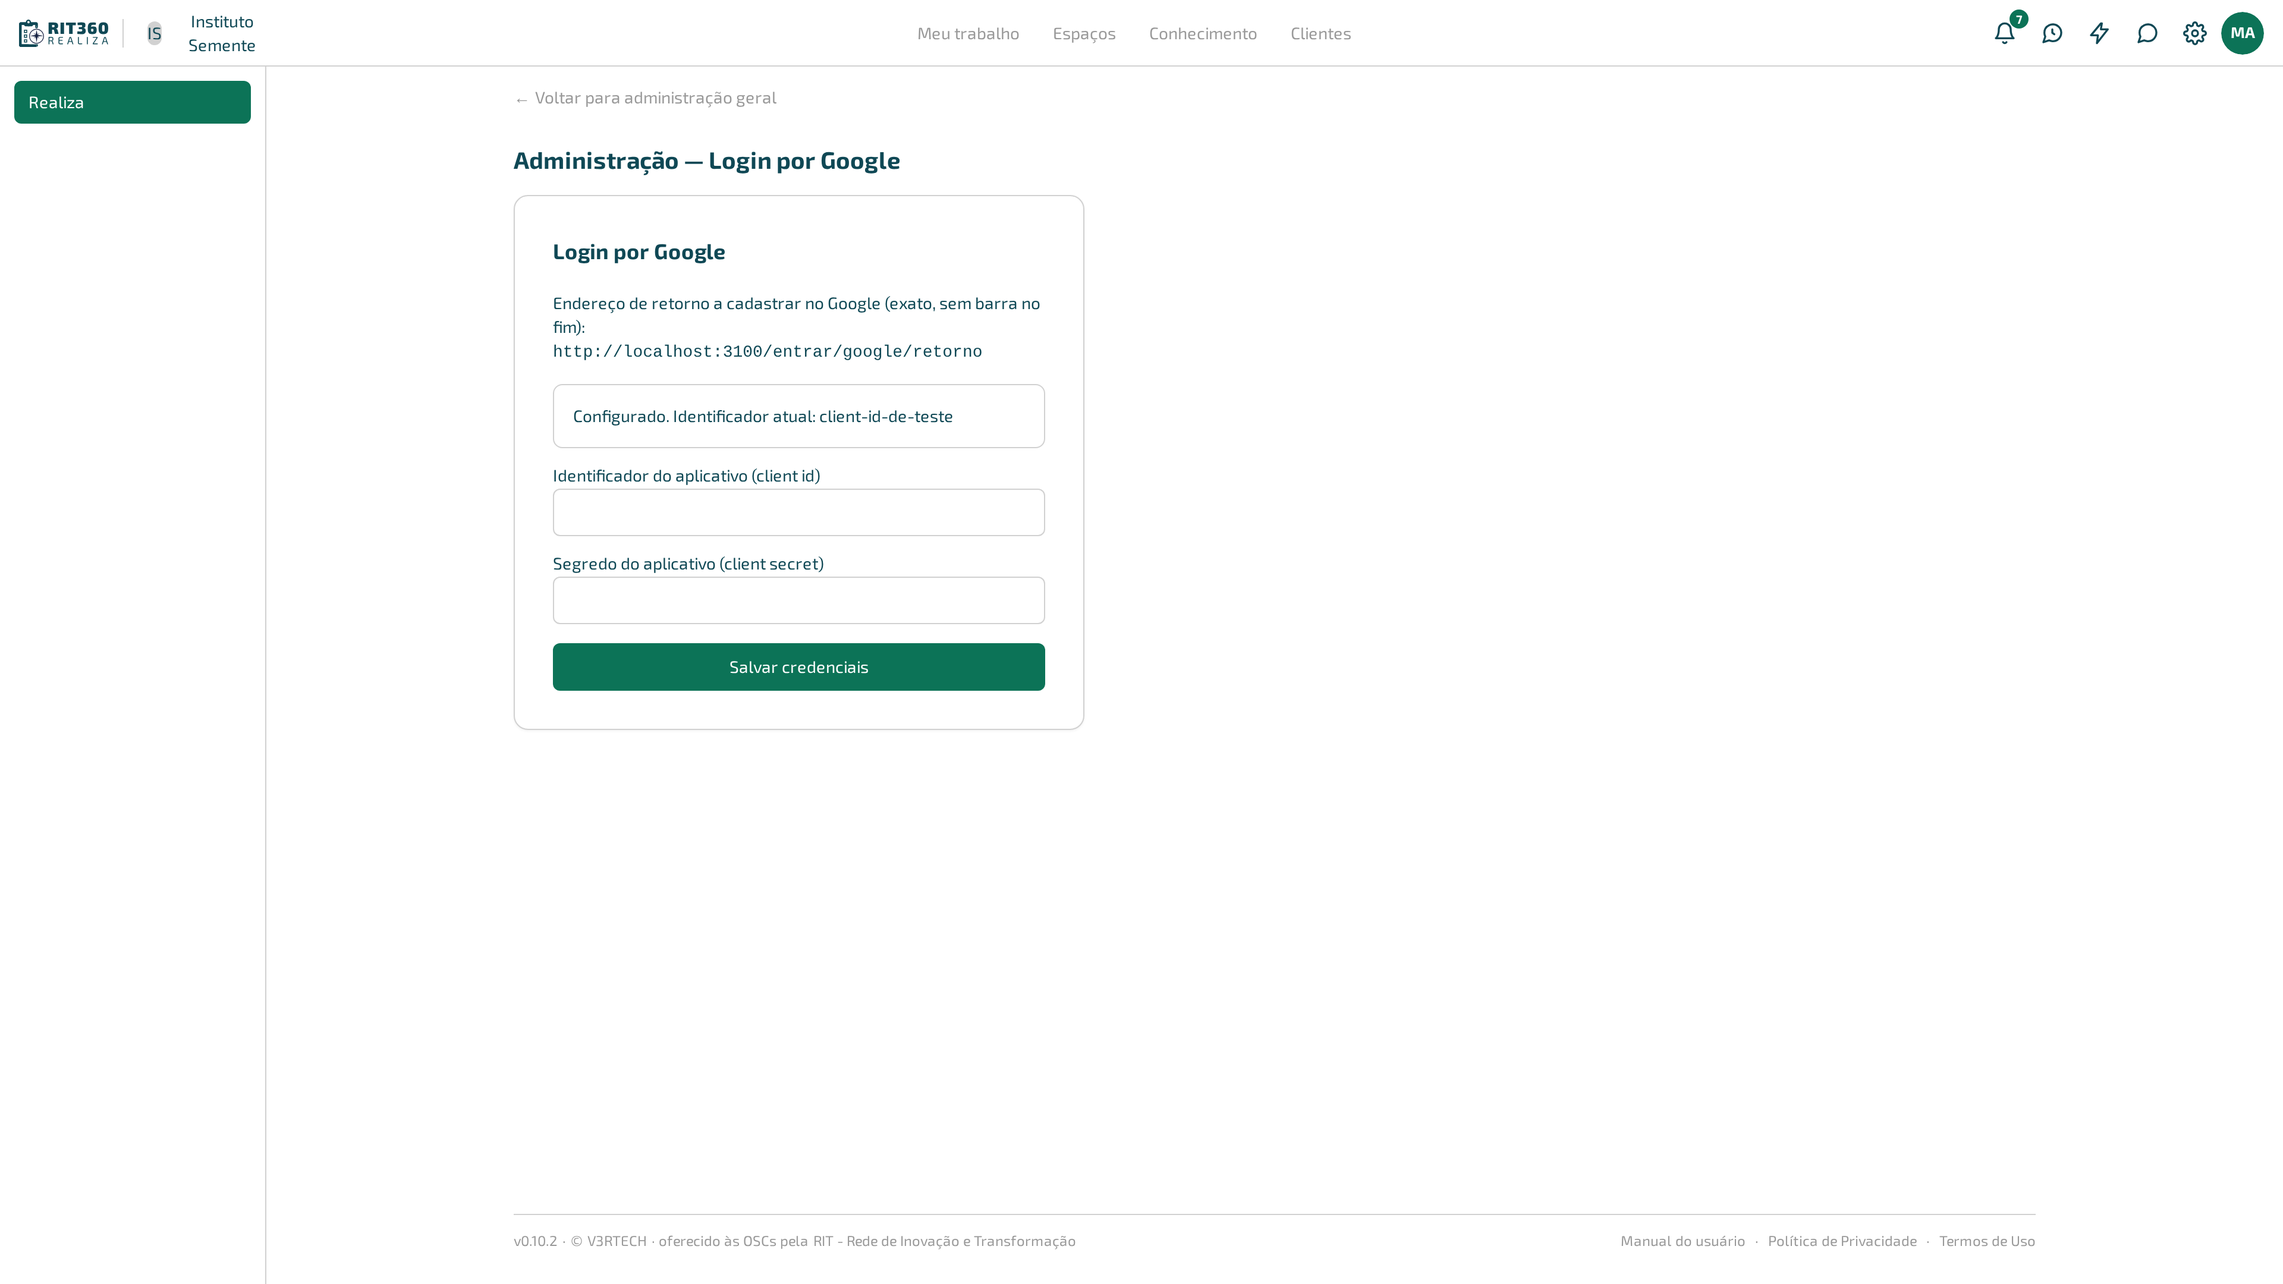
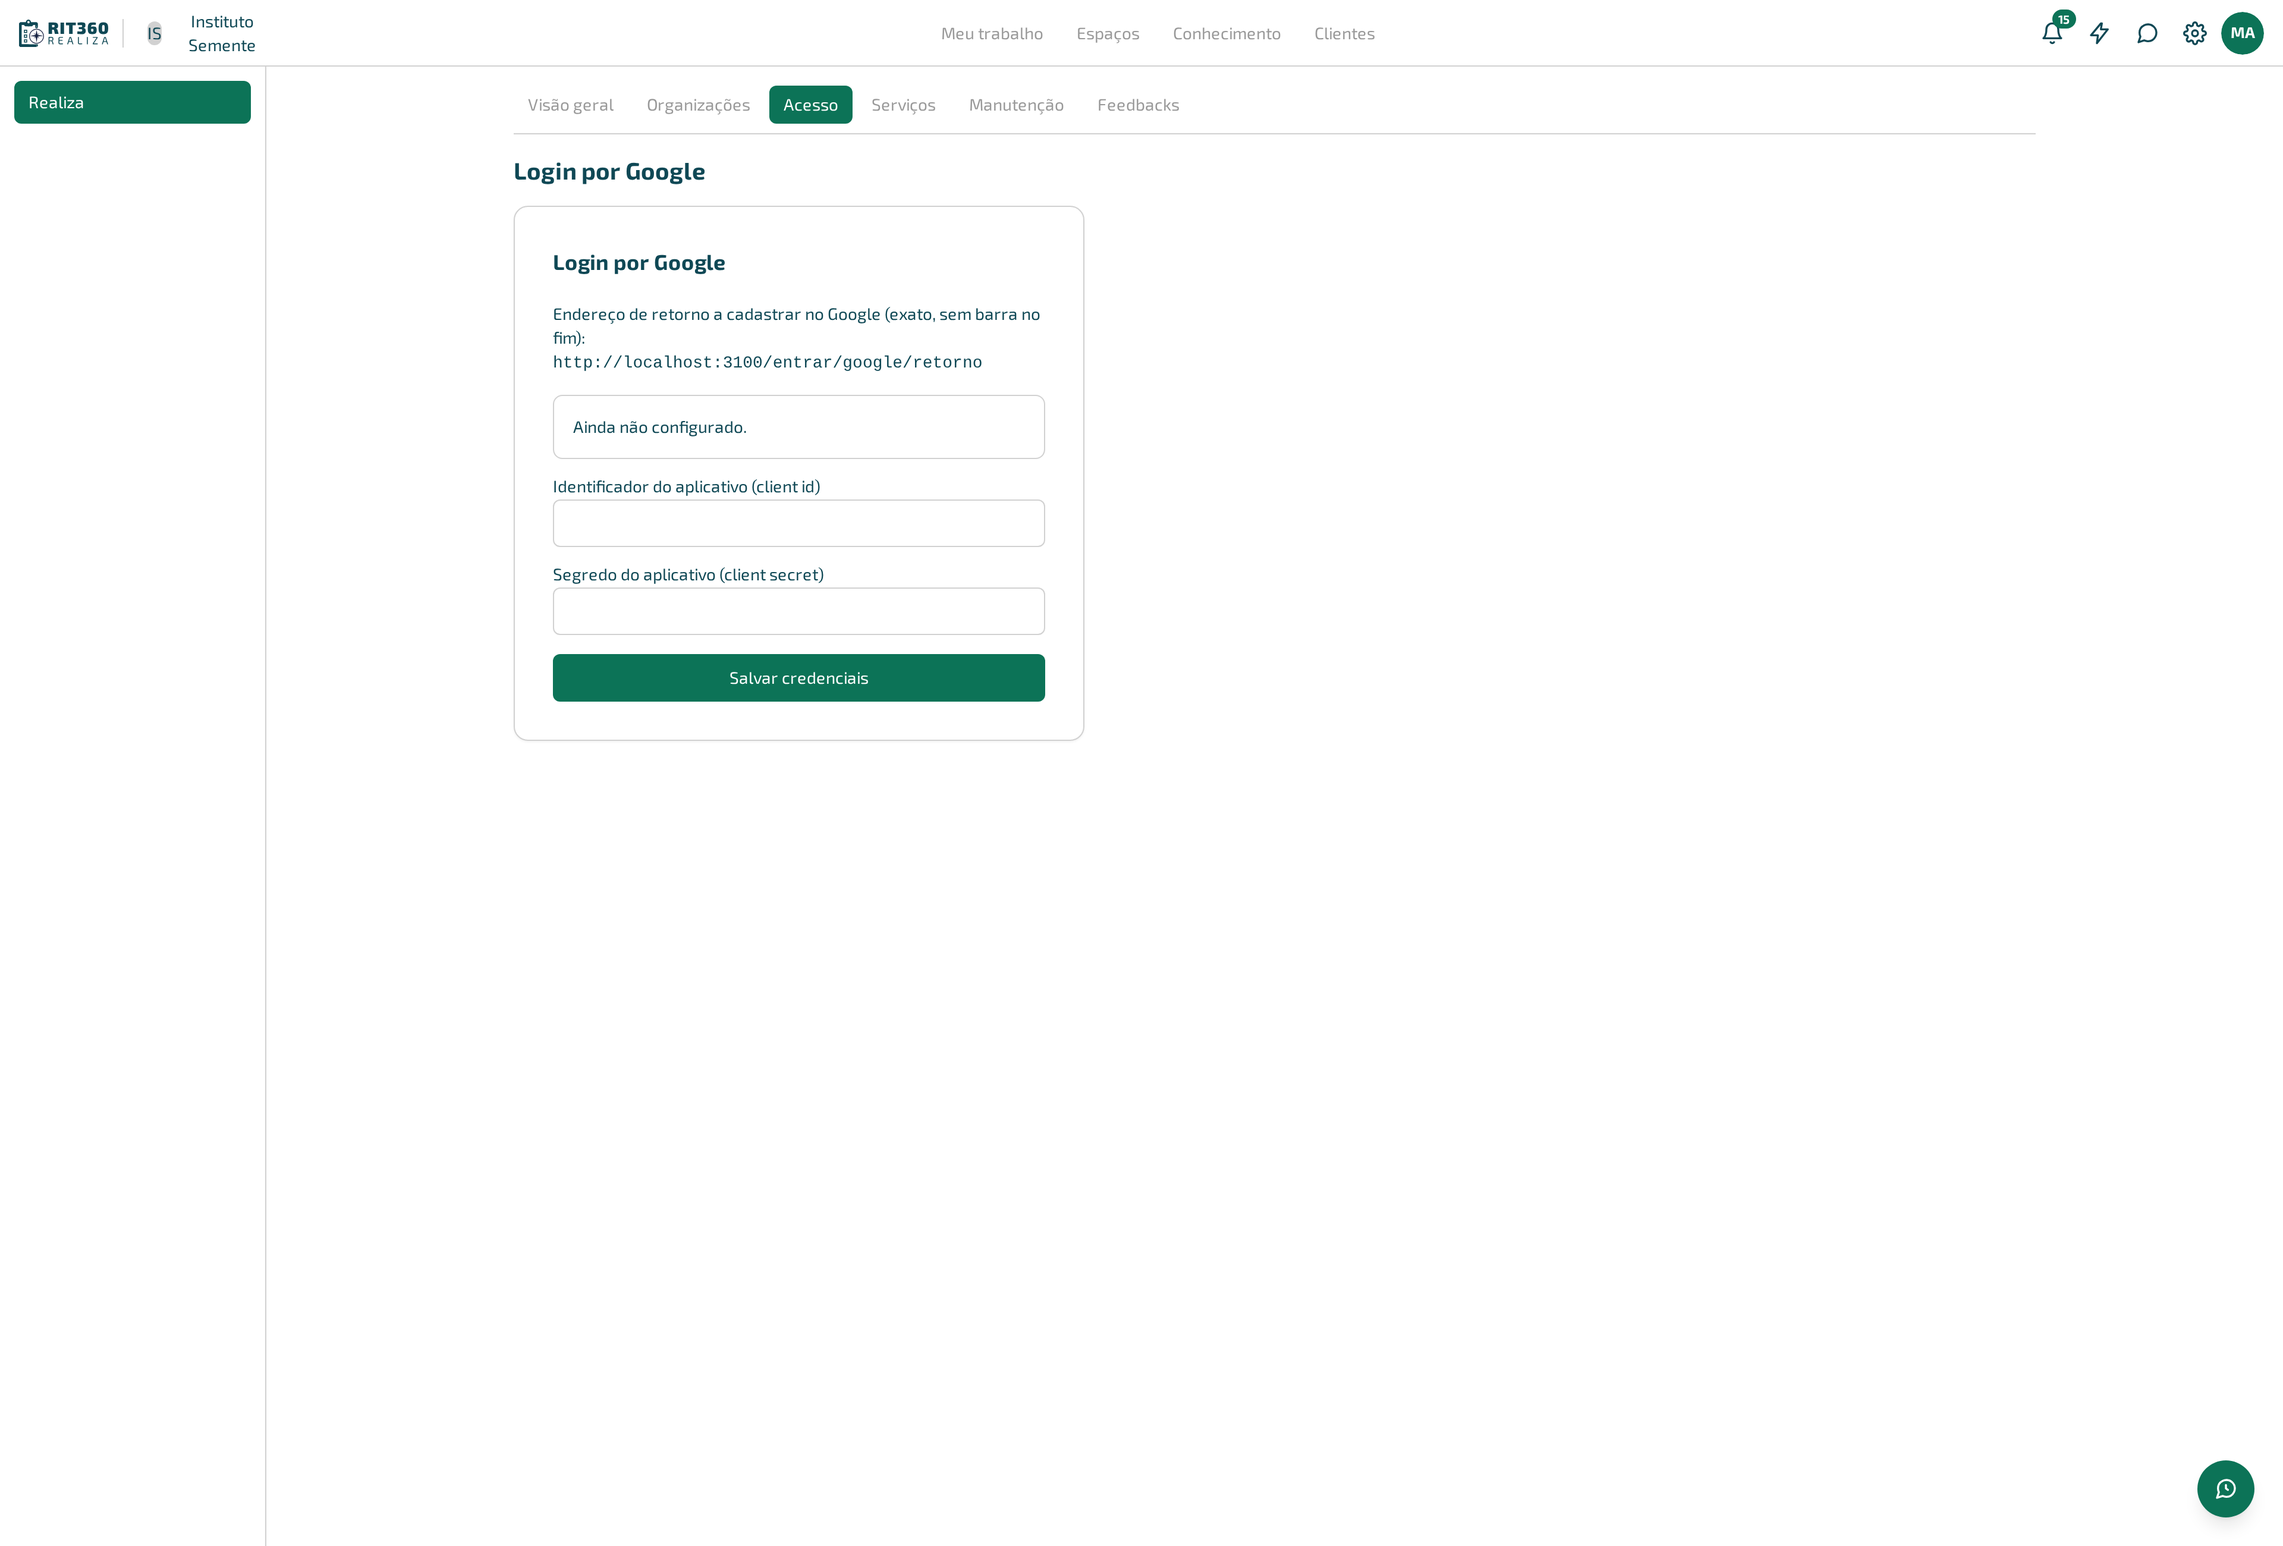
docs: acompanha a 0.21.0 — títulos da administração, abas e prévia do assistente
Administração do serviço: os títulos perderam o prefixo e "Administração
geral" virou "Visão geral". As dez páginas que começavam mandando abrir
"Administração geral" agora mandam abrir a aba certa, e a página da visão
geral deixou de descrever a tela única em duas colunas, que não existe
mais. O estado da cópia de segurança mudou de aba e o texto acompanhou.

Duas correções de conteúdo que apareceram conferindo a tela: a contagem
de espaços não inclui arquivados, ao contrário do que a página dizia; e a
visão geral tem só as contagens, nada além delas.

Conhecimento da organização: a coluna Visibilidade saiu da lista, e a
captura acompanha.

Assistente: a prévia passou a dizer o espaço, o prazo e o responsável que
ele entendeu, e ação já confirmada ou cancelada não volta a pedir decisão.
A imagem da janela fica pendente — a atual mostra a prévia antiga, e o
serviço local que responde ao assistente está rodando código velho, então
a tela de hoje não serve de retrato.

diff --git a/admin-servico/painel.md b/admin-servico/painel.md
@@ -1,14 +1,15 @@
 ---
-title: "O painel"
+title: "Visão geral"
 nav_order: 1
 parent: "Administração do serviço"
 permalink: /admin-servico/painel/
-palavras_chave: "contagens gerais, painel administrativo, limite de alcance, duas colunas"
+palavras_chave: "contagens gerais, visão geral, quantas organizações, quantos espaços, limite de alcance, cópia de segurança"
 ---
 
-# O painel
+# Visão geral
 
-O painel é a primeira coisa que você vê ao abrir a administração do serviço.
+A aba **"Visão geral"** é a primeira coisa que você vê ao abrir a administração
+do serviço.
 Ele existe para dar um retrato rápido de tamanho — quantas organizações usam o
 produto, quantas pessoas, quantos espaços — sem abrir o conteúdo de nenhuma
 delas.
@@ -29,8 +30,9 @@ delas.
 - **"Pessoas com vínculo"** — quantas pessoas têm vínculo com pelo menos uma
   organização. Uma mesma pessoa que participa de duas organizações conta uma
   vez para cada vínculo, não uma vez só.
-- **"Espaços"** — quantos espaços existem ao todo, somando projetos e
-  operações contínuas de todas as organizações, arquivados ou não.
+- **"Espaços"** — quantos espaços **ativos** existem ao todo, somando projetos e
+  operações contínuas de todas as organizações. Espaço arquivado **não** entra
+  nesta conta: arquivar um espaço faz o número cair.
 
 ## Quando as contagens não carregam
 
@@ -54,50 +56,15 @@ Se você precisa saber como uma organização específica está usando o produto
 resposta não está aqui. Peça a quem administra aquela organização — só ela
 enxerga o próprio conteúdo.
 
-## Uma tela só, em duas colunas
+## O que mais existe nesta aba
 
-No computador, tudo o que você administra no serviço fica numa **tela só**,
-organizada em duas colunas — nada de entrar e sair de tela em tela para ver
-cada assunto. No celular, as colunas empilham, uma abaixo da outra.
+Nada além disso: a **"Visão geral"** tem só o cartão **"Números do serviço"**.
+Ela é um retrato de tamanho, não um painel de controle.
 
-Alguns assuntos aparecem **direto na tela**, com o conteúdo completo:
-
-- **"Números do serviço"** — as três contagens, explicadas abaixo.
-- **"Cópia de segurança do banco"** — mostra, direto nesta tela, um destes
-  estados: **"Nunca rodou uma cópia de segurança reportada por este
-  mecanismo."**, **"Última cópia concluída com sucesso em [data e hora]."** ou
-  **"A última cópia, em [data e hora], FALHOU[: mensagem]."**. Enquanto a
-  consulta não termina, o cartão mostra **"Carregando…"**; se ela falhar, mostra
-  a mensagem de erro no lugar do estado. Veja [Cópia de
-  segurança](/admin-servico/copia-de-seguranca/) para o que cada estado
-  significa e os limites desta funcionalidade.
-- **"Quem administra o serviço"** — veja [Quem administra o
-  serviço](/admin-servico/quem-administra/).
-- **"Login por Google"** — veja [Entrada pelo
-  Google](/admin-servico/entrada-pelo-google/).
-- **"Domínios autorizados"** — veja [Domínios
-  autorizados](/admin-servico/dominios-autorizados/).
-
-{: .note }
-No celular, **"Login por Google"** e **"Domínios autorizados"** não cabem
-inteiros na tela — em vez do conteúdo completo, você vê um resumo de uma linha
-e um botão **"Abrir"**, que leva à tela própria daquele assunto.
-
-Outros assuntos são grandes demais para caber ao lado de outro card sem
-espremer — esses continuam em telas próprias, e o caminho até eles é o bloco
-**"Mais configurações"**, no fim da tela, com um botão para cada um:
-
-- **"Servidor de e-mail"**
-- **"Provedores de IA"**
-- **"Organizações"**
-- **"Pedidos de organização"**
-- **"Feedbacks"**
-- **"Destinos da cópia de segurança"**
-- **"Tarefas agendadas"**
-- **"Mudar de servidor"**
-
-Cada um deles é explicado na página própria, linkada no
-[índice desta seção](/admin-servico/).
+Todo o resto — organizações, acesso, serviços, manutenção e feedbacks — fica nas
+outras abas. O [índice desta seção](/admin-servico/) lista o que há em cada uma.
+O estado da última cópia de segurança, por exemplo, fica na aba
+**"Manutenção"**; veja [Cópia de segurança](/admin-servico/copia-de-seguranca/).
 
 ## Quando dá errado
 

diff --git a/assistente.md b/assistente.md
@@ -31,13 +31,9 @@ janela, você continua exatamente onde estava, sem precisar navegar de volta.
 Para fechar, use o botão **"Fechar"** (o ✕ no canto do cabeçalho), pressione Esc, ou clique fora da
 janela — as três formas funcionam.
 
-![Janela do assistente aberta no canto inferior direito, ancorada ao botão redondo, com o pedido de criar uma tarefa e a prévia esperando confirmação — o resto da tela continua visível atrás](/assets/capturas/assistente-janela-desktop.png)
-{: .mt-4 }
-
-A mesma janela no celular:
-
-![Janela do assistente no celular, com o pedido de criar uma tarefa e a prévia esperando confirmação](/assets/capturas/assistente-janela-celular.png){: style="max-width:375px" }
-{: .mt-4 }
+<!-- CAPTURA PENDENTE: janela do assistente, desktop e celular. As imagens atuais mostram a prévia
+     antiga, de uma linha só; a da 0.21.0 cita espaço, prazo e responsável. Refazer evitando
+     enquadrar data crua enquanto a issue #173 não sair. -->
 
 ## Conversar
 
@@ -106,6 +102,21 @@ executa direto. Ele mostra uma prévia com dois botões:
 - **"Confirmar"** — só agora a ação acontece.
 - **"Cancelar"** — nada é feito, e a prévia some da conversa.
 
+A prévia diz **o que ele entendeu do seu pedido**, não só o nome da coisa: o espaço em que a
+tarefa vai nascer, o prazo e o responsável, quando você tiver dito algum deles. Por exemplo:
+
+> Criar a tarefa "ligar para o depósito confirmando a entrega das caixas", no espaço "Campanha do
+> Agasalho 2026", com prazo em 25/09/2026. Confirma?
+
+As prévias de excluir tarefa e de remover participante dizem de qual espaço; as de reprogramação
+de prazo e de ajuste de entrega dizem o motivo.
+
+{: .warning }
+**Confira o prazo na prévia, e não só o dia.** Pedindo com uma palavra — "sexta", "semana que
+vem" —, o assistente pode acertar o dia e errar o ano. É para isso que a prévia mostra a data por
+extenso: dando algo diferente do que você quis dizer, clique em **"Cancelar"** e peça de novo com
+a data completa.
+
 {: .note }
 Enquanto a prévia está na tela, nada foi criado, alterado ou aprovado ainda. É por isso que ela
 existe: para você ver exatamente o que vai acontecer antes de acontecer, em vez de descobrir
@@ -117,7 +128,9 @@ interpretar qual espaço você quis dizer — a prévia é o momento de conferir
 espaço certo antes de a ação acontecer de verdade.
 
 Fechando a conversa com uma prévia pendente e voltando depois, ela continua lá, esperando sua
-decisão — não desaparece sozinha.
+decisão — não desaparece sozinha. Já uma prévia que você **confirmou ou cancelou** não volta: a
+conversa guarda o que aconteceu, e a caixa com os dois botões só aparece quando há mesmo algo
+esperando você.
 
 ## Citar o espaço pelo nome
 

diff --git a/admin-servico/entrada-pelo-google.md b/admin-servico/entrada-pelo-google.md
@@ -21,10 +21,10 @@ forma de entrada.
 
 ## Passo a passo
 
-1. Abra **"Administração geral"**. No computador, esta configuração já
-   aparece direto na tela, num card próprio — role até **"Login por
-   Google"**. No celular, toque no botão **"Abrir"** do card **"Login por
-   Google"** para chegar à tela própria dela.
+1. Na administração do serviço, abra a aba **"Acesso"**. No computador, esta
+   configuração já aparece direto na tela, num card próprio — role até
+   **"Login por Google"**. No celular, toque no botão **"Abrir"** do card
+   **"Login por Google"** para chegar à tela própria dela.
 2. Copie o endereço mostrado no topo da tela, ao lado de **"Endereço de
    retorno a cadastrar no Google"**, exatamente como aparece, sem acrescentar
    nem remover a barra do fim.

diff --git a/admin-servico/dominios-autorizados.md b/admin-servico/dominios-autorizados.md
@@ -38,9 +38,9 @@ A mesma tela no celular:
 
 ## Passo a passo — autorizar um domínio
 
-1. Abra **"Administração geral"**. No computador, esta configuração já
-   aparece direto na tela, num card próprio — role até **"Domínios
-   autorizados"**. No celular, toque no botão **"Abrir"** do card
+1. Na administração do serviço, abra a aba **"Acesso"**. No computador, esta
+   configuração já aparece direto na tela, num card próprio — role até
+   **"Domínios autorizados"**. No celular, toque no botão **"Abrir"** do card
    **"Domínios autorizados"**.
 2. No campo **"Autorizar domínio (ex.: rit.org.br)"**, digite o domínio, sem
    o `@`.

diff --git a/admin-servico/destinos-backup.md b/admin-servico/destinos-backup.md
@@ -24,8 +24,8 @@ próprio, uma nuvem privada) é o que fecha essa lacuna.
 
 ## Passo a passo — cadastrar um destino
 
-1. Abra **"Administração geral"**, role até **"Mais configurações"** e
-   clique em **"Destinos da cópia de segurança"**.
+1. Na administração do serviço, abra a aba **"Manutenção"** e clique em
+   **"Destinos da cópia de segurança"**.
 2. Clique em **"Cadastrar destino"**.
 3. Em **"Mecanismo"**, escolha um dos três: **"S3 e compatíveis (AWS,
    Backblaze, Wasabi, MinIO, R2…)"**, **"SFTP (servidor próprio, NAS)"** ou

diff --git a/admin-servico/pedidos-de-organizacao.md b/admin-servico/pedidos-de-organizacao.md
@@ -36,7 +36,8 @@ quem pediu, o **domínio** desse e-mail e, quando informado e diferente, o **dom
 
 ## Passo a passo — decidir um pedido
 
-1. Abra **"Administração geral"** e clique em **"Pedidos de organização"**.
+1. Na administração do serviço, abra a aba **"Organizações"** e clique em
+   **"Pedidos de organização"**.
 2. Avalie o pedido: o nome da organização é plausível, o e-mail e o domínio do site (quando
    informado) fazem sentido para a mesma instituição.
 3. Clique em **"Aprovar"** ou em **"Recusar"**, na linha do pedido.

diff --git a/admin-servico/provedores-de-ia.md b/admin-servico/provedores-de-ia.md
@@ -25,7 +25,8 @@ Os provedores disponíveis hoje são **Gemini**, **OpenAI** e **Claude**.
 
 ## Passo a passo — cadastrar um provedor
 
-1. Abra **"Administração geral"** e clique em **"Provedores de IA"**.
+1. Na administração do serviço, abra a aba **"Serviços"** e clique em
+   **"Provedores de IA"**.
 2. No formulário **"Cadastrar novo provedor"**, escolha o provedor em
    **"Provedor"**.
 3. Ao escolher, aparece uma explicação de onde conseguir a credencial daquele

diff --git a/admin-servico/mudar-de-servidor.md b/admin-servico/mudar-de-servidor.md
@@ -21,7 +21,8 @@ que vai entrar aparece antes de qualquer gravação de verdade.
 
 ## Exportar a instalação
 
-1. Abra **"Administração geral"** e clique em **"Mudar de servidor"**.
+1. Na administração do serviço, abra a aba **"Manutenção"** e clique em
+   **"Mudar de servidor"**.
 2. Na aba **"Exportar"**, escolha **"Senha do pacote"** e repita em **"Confirme a senha"** — pelo
    menos 8 caracteres.
 3. Clique em **"Gerar pacote de exportação"**.

diff --git a/admin-servico/index.md b/admin-servico/index.md
@@ -32,7 +32,8 @@ clique — não é preciso voltar à primeira tela.
 
 ## O que você encontra aqui, por aba
 
-**Visão geral** — [o painel](/admin-servico/painel/), com as contagens do serviço.
+**Visão geral** — [as contagens do serviço](/admin-servico/painel/): quantas organizações,
+quantas pessoas e quantos espaços.
 
 **Organizações**
 - [Organizações](/admin-servico/organizacoes/) — a lista de todas as organizações do serviço, o

diff --git a/admin-servico/organizacoes.md b/admin-servico/organizacoes.md
@@ -47,7 +47,7 @@ A mesma tela no celular:
 
 ## Passo a passo — criar uma organização
 
-1. Abra **"Administração geral"** e clique em **"Organizações"**.
+1. Na administração do serviço, abra a aba **"Organizações"**.
 2. No formulário **"Criar organização"**, preencha **"Nome da organização"**.
 3. Preencha **"E-mail de quem vai administrar"** com o e-mail da pessoa que
    vai gerir aquela organização a partir de agora.

diff --git a/admin-servico/feedbacks.md b/admin-servico/feedbacks.md
@@ -33,7 +33,7 @@ A mesma tela no celular:
 
 ## Passo a passo — responder um feedback
 
-1. Abra **"Administração geral"** e clique em **"Feedbacks"**.
+1. Na administração do serviço, abra a aba **"Feedbacks"**.
 2. Cada feedback aparece num cartão, com o tipo, o título, a mensagem, a data
    de envio e a linha **"Tela de origem: [rota de onde a pessoa mandou]"**.
 3. Se o feedback tiver anexo, clique no nome dele para baixar.

diff --git a/admin-servico/quem-administra.md b/admin-servico/quem-administra.md
@@ -15,7 +15,8 @@ amplo que existe no produto, e nunca pode chegar a zero pessoas."**
 
 ## Passo a passo — conceder
 
-1. Abra **"Administração geral"** e role até **"Quem administra o serviço"**.
+1. Na administração do serviço, abra a aba **"Acesso"** e role até
+   **"Quem administra o serviço"**.
 2. No campo **"Conceder por e-mail"**, digite o e-mail da pessoa.
 3. Clique em **"Conceder"**.
 
